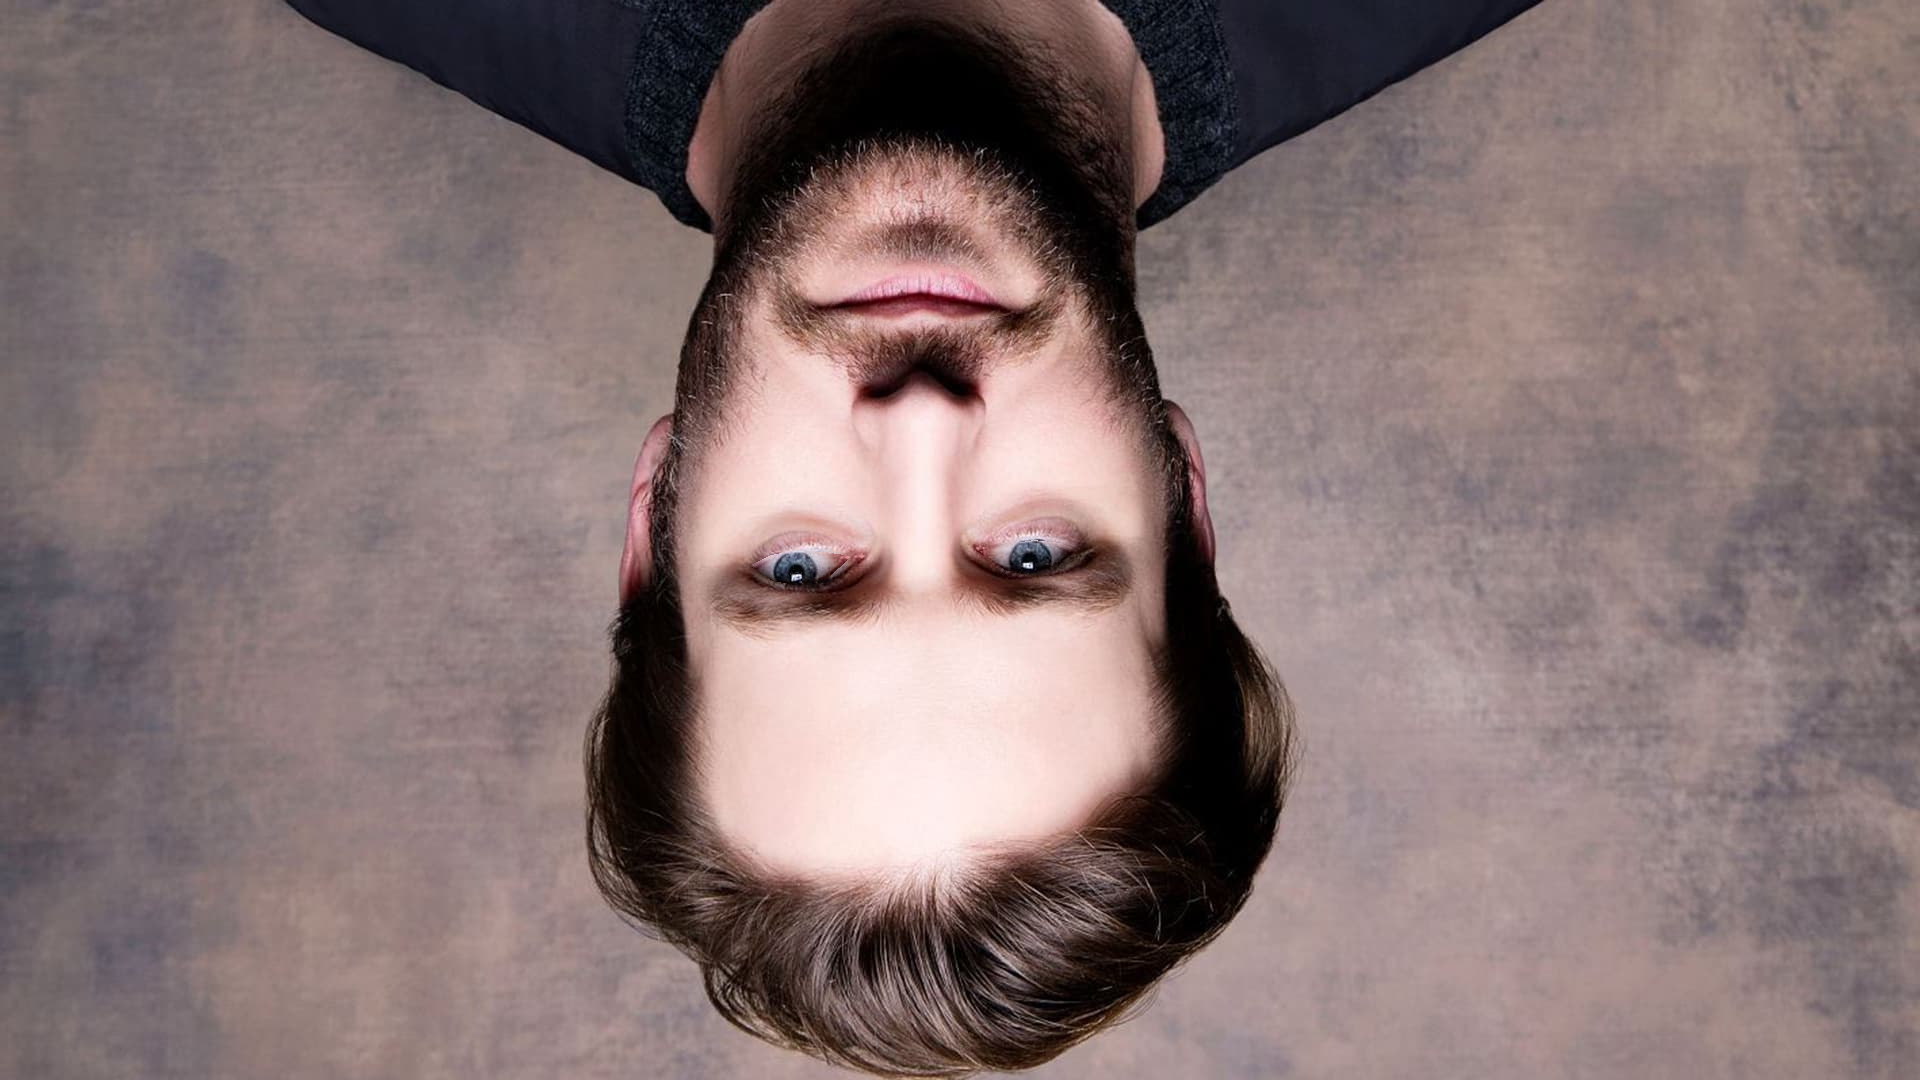
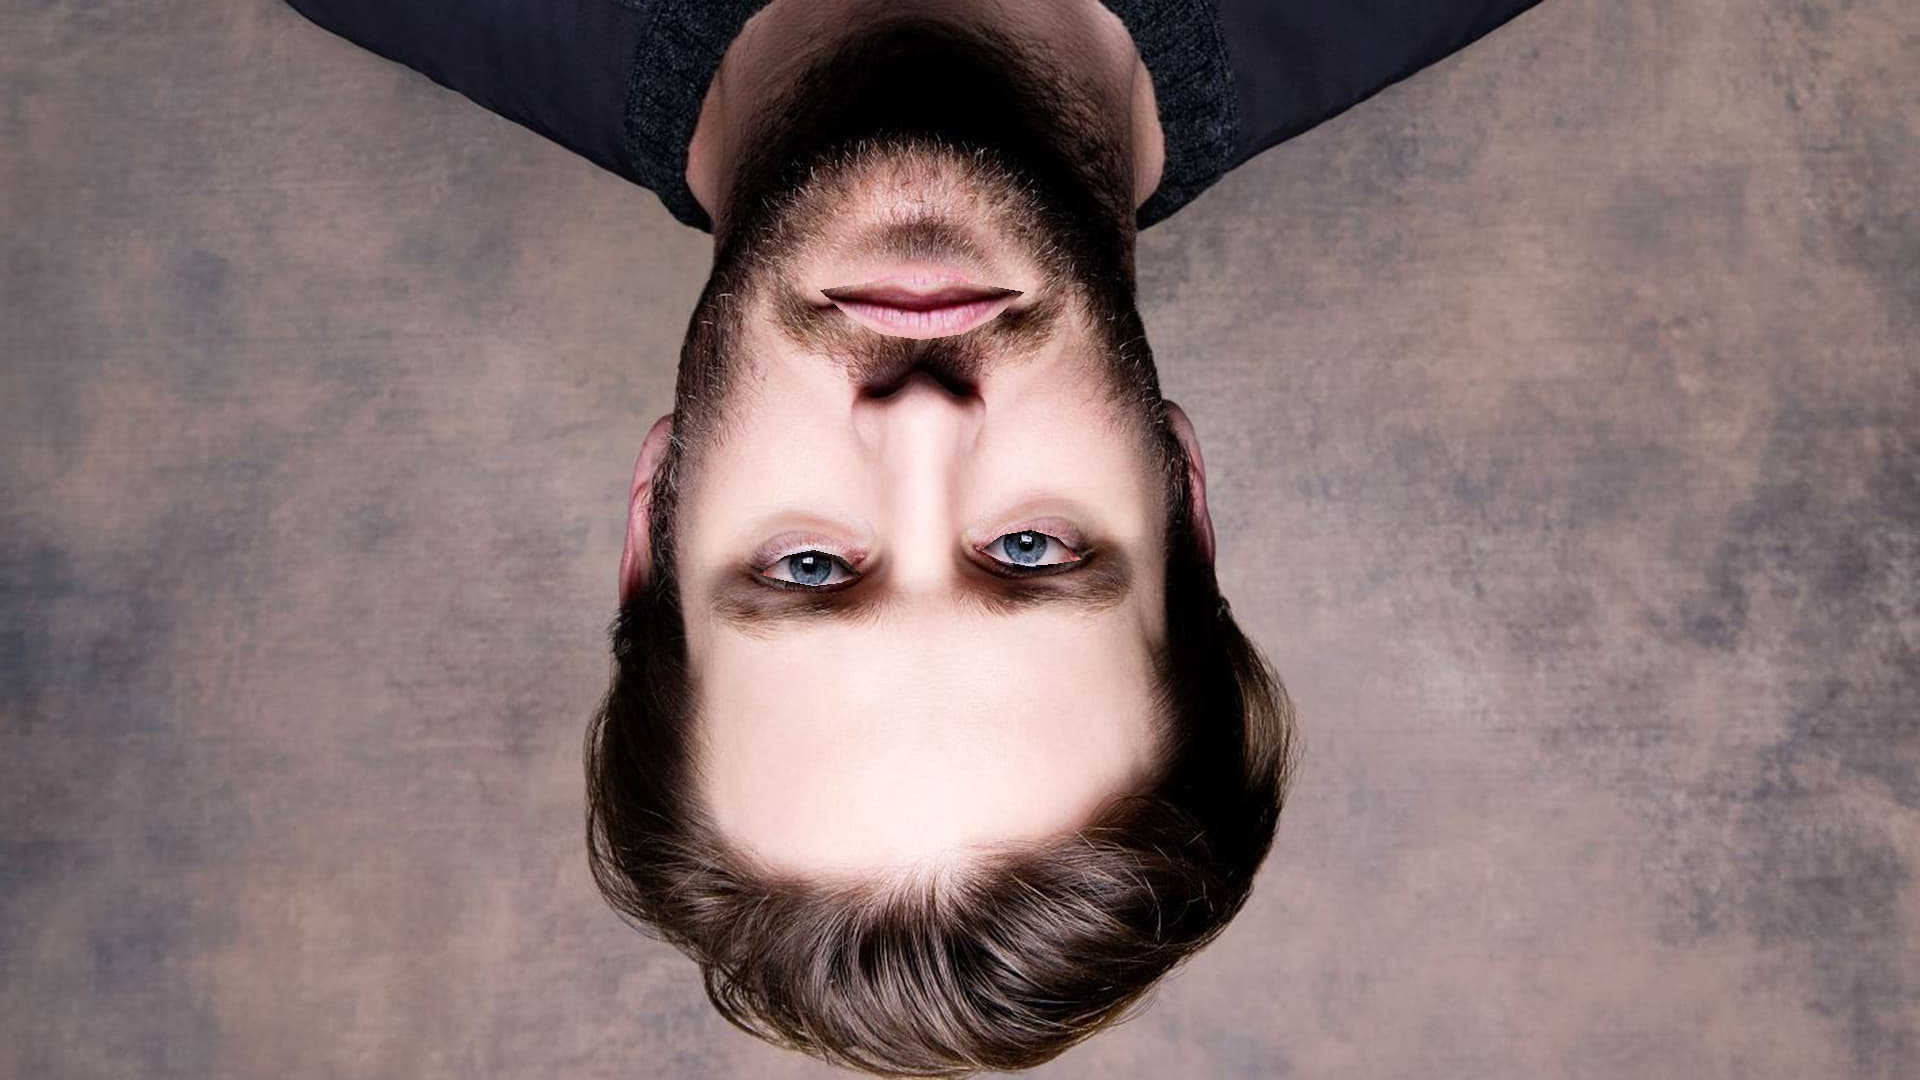
fix : flip lips and eyes

Changed region(s): [[0.4375, 0.2444, 0.5312, 0.3361], [0.375, 0.4889, 0.4688, 0.55], [0.5, 0.4889, 0.5625, 0.55]]

diff --git a/Assignment_30/rotation_photo.py b/Assignment_30/rotation_photo.py
@@ -71,15 +71,18 @@ def add_filter(image, lips, right_eye, left_eye):
 
     lips = cv2.flip(lips, 0)
     removed_background_lips = remove_background(lips)
-    image = overlayPNG(image, removed_background_lips, pos=(820, 265))
+    removed_background_lips = cv2.flip(removed_background_lips, 0)
+    image = overlayPNG(image, removed_background_lips, pos=(820, 280))
 
     right_eye = cv2.flip(right_eye, 0)
     removed_background_right_eye = remove_background(right_eye)
-    image = overlayPNG(image, removed_background_right_eye, pos=(750, 550))
+    removed_background_right_eye = cv2.flip(removed_background_right_eye, 0)
+    image = overlayPNG(image, removed_background_right_eye, pos=(980, 530))
 
     left_eye = cv2.flip(left_eye, 0)
     removed_background_left_eye = remove_background(left_eye)
-    image = overlayPNG(image, removed_background_left_eye, pos=(980, 540))
+    removed_background_left_eye = cv2.flip(removed_background_left_eye, 0)
+    image = overlayPNG(image, removed_background_left_eye, pos=(760, 550))
 
     result = image
     return result
